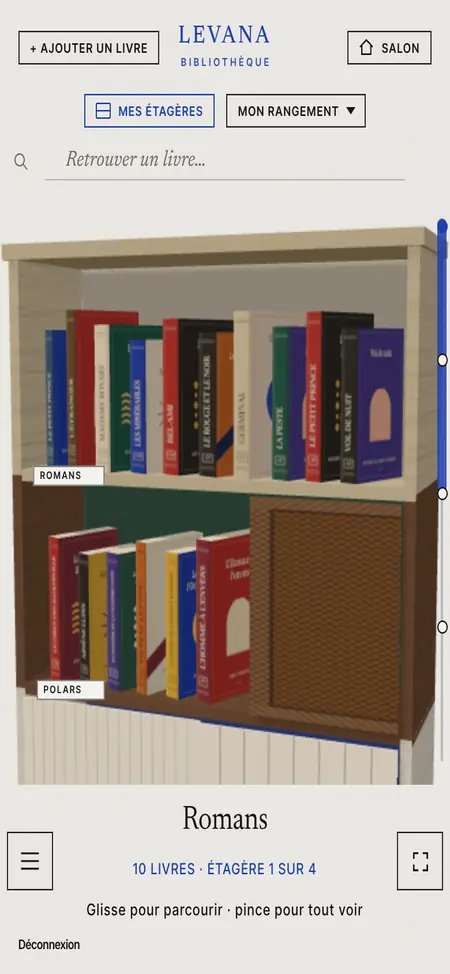
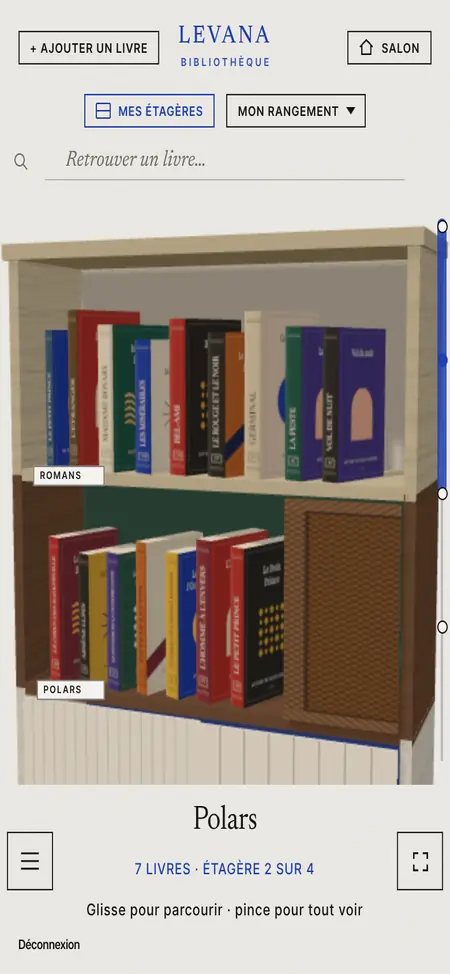
Panier : les livres sortent en rang en bas de l'écran
On touche le panier (ou « Sortir les livres ») : ses livres en sortent et se
posent en rang en bas de l'écran. On en glisse un sur une étagère du mur
(une place s'ouvre, le mur défile près des bords), ou on touche son « + »
pour choisir l'étagère (la plus probable en premier). Remplace le rangement
un par un. Le panier garde une taille fixe pour que le mur ne bouge pas.
Le tuto de la télé est refait avec ces nouveaux écrans.

Claude-Session: https://claude.ai/code/session_01Tg9JuQWn64WBjX1JtYF8aa

diff --git a/src/components/Basket.jsx b/src/components/Basket.jsx
@@ -2,6 +2,8 @@ import { lazy, Suspense, useEffect, useMemo, useRef, useState } from 'react'
 import { spineColors, hashString } from '../lib/bookUtils'
 import { webglAvailable } from '../three/webgl'
 import { basketScale, MAX_BASKET } from '../lib/basketSize'
+import { suggestShelf } from '../lib/suggestShelf'
+import { resolveSkin } from '../lib/skins'
 
 // Le panier 3D (Three.js) est chargé à part, comme la bibliothèque
 const Basket3D = lazy(() => import('./Basket3D'))
@@ -247,6 +249,153 @@ export function ShelfBasket({ items, shelves, defaultShelf, canDrop, api, mobile
           {confirmClear ? 'Vraiment ?' : 'Vider'}
         </button>
       </div>
+    </aside>
+  )
+}
+
+/**
+ * Le panier sous la bibliothèque. On le touche : les livres en sortent et se posent en rang
+ * en bas de l'écran. On glisse un livre sur une étagère (une place s'ouvre), ou on touche son
+ * « + » pour choisir l'étagère (la plus probable en premier).
+ */
+export function BasketTray({ items, shelves, books, api, mobile, canDrop, open, onOpen, onClose, onDropBook, onPlace, onOpenBook }) {
+  const real = useMemo(() => shelves.filter(s => !s.pseudo), [shelves])
+  const byId = useMemo(() => new Map(books.map(b => [b.id, b])), [books])
+  const [picker, setPicker] = useState(null)        // livre dont on choisit l'étagère
+  const [dragging, setDragging] = useState(null)
+  const [busy, setBusy] = useState(null)
+  const [last, setLast] = useState(null)
+  const coverEls = useRef({})
+  const n = items.length
+
+  useEffect(() => { if (picker && !items.some(b => b.googleId === picker.googleId)) setPicker(null) }, [items, picker])
+  useEffect(() => { if (!open) setPicker(null) }, [open])
+
+  const startPress = (e, book) => {
+    if (e.button > 0 || busy) return
+    const el = e.currentTarget
+    const rc = el.getBoundingClientRect()
+    const start = { x: e.clientX, y: e.clientY }
+    const fx = (e.clientX - rc.left) / rc.width, fy = (e.clientY - rc.top) / rc.height
+    const touch = e.pointerType !== 'mouse'
+    const id = `basket:${book.googleId}`
+    let ghost = null, timer = null, dead = false
+    const src = el.querySelector('img')?.src
+
+    const begin = () => {
+      if (ghost || dead || !canDrop) return
+      ghost = document.createElement('div')
+      ghost.className = 'bb-ghost'
+      ghost.style.cssText = `width:${rc.width}px;height:${rc.height}px;background:${colorOf(book)}`
+      if (src) { const img = new Image(); img.src = src; img.alt = ''; ghost.appendChild(img) }
+      ghost.style.transform = `translate(${rc.left}px, ${rc.top}px) scale(1.08)`
+      document.body.appendChild(ghost)
+      document.body.classList.add('is-dragging')
+      setDragging(book.googleId)
+      setPicker(null)
+      navigator.vibrate?.(8)
+    }
+    const onMove = ev => {
+      const dx = ev.clientX - start.x, dy = ev.clientY - start.y
+      if (!ghost) {
+        if (Math.hypot(dx, dy) < 7) return
+        // doigt : vers le haut on prend le livre ; sur le côté on fait défiler la rangée
+        if (!touch || (dy < 0 && Math.abs(dy) > Math.abs(dx) * 0.8)) begin()
+        else { dead = true; clearTimeout(timer); return }
+        if (!ghost) return
+      }
+      ev.preventDefault()
+      ghost.style.transform = `translate(${ev.clientX - fx * rc.width}px, ${ev.clientY - fy * rc.height}px) scale(1.12) rotate(-3deg)`
+      const over = api.current?.previewExternal(id, ev.clientX, ev.clientY)
+      ghost.classList.toggle('on-shelf', !!over)
+    }
+    const end = ev => {
+      clearTimeout(timer)
+      el.removeEventListener('pointermove', onMove)
+      el.removeEventListener('pointerup', end)
+      el.removeEventListener('pointercancel', end)
+      if (!ghost) {
+        if (ev.type === 'pointerup' && !dead && Math.hypot(ev.clientX - start.x, ev.clientY - start.y) < 7) onOpenBook(book)
+        return
+      }
+      const t = api.current?.endExternal() || null
+      document.body.classList.remove('is-dragging')
+      setDragging(null)
+      const g = ghost
+      if (t && ev.type === 'pointerup') {
+        g.animate([{ opacity: 1 }, { opacity: 0, transform: g.style.transform.replace(/scale\([^)]*\)/, 'scale(0.5)') }], { duration: 260, easing: 'ease-in' }).onfinish = () => g.remove()
+        setLast(t.shelfId)
+        onDropBook(book, t)
+      } else {
+        // pas d'étagère sous le doigt : le livre revient à sa place dans la rangée
+        g.animate([{ transform: g.style.transform }, { transform: `translate(${rc.left}px, ${rc.top}px) scale(1)` }], { duration: 420, easing: 'cubic-bezier(.3, 1.25, .5, 1)' }).onfinish = () => g.remove()
+      }
+    }
+    if (touch) timer = setTimeout(begin, 380)     // appui long : on le prend aussi
+    el.setPointerCapture(e.pointerId)
+    el.addEventListener('pointermove', onMove)
+    el.addEventListener('pointerup', end)
+    el.addEventListener('pointercancel', end)
+  }
+
+  const choose = async (book, shelfId) => {
+    const el = coverEls.current[book.googleId]
+    setPicker(null); setBusy(book.googleId); setLast(shelfId)
+    try { await onPlace(book, shelfId, el?.getBoundingClientRect(), el?.querySelector('img')?.src) } finally { setBusy(null) }
+  }
+
+  const sugg = picker ? suggestShelf(picker, real, byId, last) : null
+  const ordered = sugg ? [real.find(s => s.id === sugg.shelfId), ...real.filter(s => s.id !== sugg.shelfId)].filter(Boolean) : real
+
+  return (
+    <aside className={'tray-bar' + (open ? ' is-open' : '')} aria-label="Mon panier">
+      <div className="tray-basket" onClick={() => !open && onOpen()} role="button" tabIndex={0} aria-label="Sortir les livres du panier">
+        <AnyBasket items={items} width={mobile ? 104 : 190} onBookClick={() => !open && onOpen()} />
+      </div>
+      <div className="tray-side">
+        <p className="tray-count">{n > 1 ? `${n} livres à ranger` : '1 livre à ranger'}</p>
+        {/* toujours là (invisible une fois ouvert) : la place du panier ne change pas, le mur ne bouge pas */}
+        <button type="button" className="lbl box filled tray-out" style={open ? { visibility: 'hidden' } : undefined} onClick={onOpen}>Sortir les livres</button>
+      </div>
+
+      {open && (
+        <div className="tray grain" role="dialog" aria-label="Livres à ranger">
+          <div className="tray-head">
+            <p className="tray-hint">{canDrop ? 'Glisse un livre sur une étagère, ou touche +' : 'Touche + pour choisir l’étagère'}</p>
+            <button type="button" className="lbl box" onClick={onClose}>Remettre au panier</button>
+          </div>
+          <div className="tray-row">
+            {items.map((b, k) => (
+              <div key={b.googleId} className={'tray-book' + (dragging === b.googleId || busy === b.googleId ? ' away' : '')} style={{ animationDelay: `${80 + k * 70}ms` }}>
+                <span className="tray-cover" ref={el => { coverEls.current[b.googleId] = el }} style={{ background: colorOf(b) }} onPointerDown={e => startPress(e, b)} onDragStart={e => e.preventDefault()}>
+                  {b.cover && <img src={b.cover.replace('http://', 'https://')} alt="" draggable="false" />}
+                </span>
+                <button type="button" className={'tray-plus' + (picker?.googleId === b.googleId ? ' on' : '')} aria-label={`Choisir l’étagère de ${b.title}`} onClick={() => setPicker(p => (p?.googleId === b.googleId ? null : b))}>+</button>
+                <span className="tray-title">{b.title}</span>
+              </div>
+            ))}
+          </div>
+          {picker && (
+            <div className="tray-picker" key={picker.googleId}>
+              <p className="tray-q"><em>{picker.title}</em> · sur quelle étagère ?</p>
+              <div className="gp-shelves">
+                {ordered.map((s, k) => {
+                  const pal = resolveSkin(s)
+                  const on = sugg?.shelfId === s.id
+                  return (
+                    <button key={s.id} type="button" className={'gp-chip' + (on ? ' sugg' : '')} style={{ '--wood': pal.mat.mid, '--wall': pal.wall2, animationDelay: `${40 + k * 35}ms` }} onClick={() => choose(picker, s.id)}>
+                      {on && <span className="gp-why">Suggérée · {sugg.reason}</span>}
+                      <span className="gp-swatch" aria-hidden="true" />
+                      <span className="gp-name">{s.name}</span>
+                      <span className="gp-count">{s.book_ids.length}</span>
+                    </button>
+                  )
+                })}
+              </div>
+            </div>
+          )}
+        </div>
+      )}
     </aside>
   )
 }

diff --git a/src/styles.css b/src/styles.css
@@ -1258,3 +1258,63 @@ canvas { -webkit-user-select: none; user-select: none; -webkit-touch-callout: no
 .tv-step { padding: 7px 10px; background-color: var(--sheet); border: 1px solid var(--rule-soft); color: var(--ink); }
 
 .tv-overlay { position: fixed; z-index: 2; pointer-events: none; border-radius: 2px; }
+
+/* Le panier sous la bibliothèque : on sort les livres en bas de l'écran ------------------- */
+/* pas d'animation ni de transform ici : la rangée (position fixe) doit pouvoir sortir du cadre */
+.tray-bar { display: flex; align-items: center; gap: 14px; padding: 0 18px 6px 4px; flex: none; }
+.tray-bar > .tray-basket, .tray-bar > .tray-side { animation: cardIn 0.6s cubic-bezier(.2, .8, .2, 1) both; }
+.tray-basket { cursor: pointer; flex: none; transition: transform 0.3s cubic-bezier(.3, 1.6, .5, 1); }
+.tray-basket:active { transform: scale(0.95); }
+.tray-side { display: flex; flex-direction: column; gap: 10px; align-items: flex-start; }
+.tray-count { font-family: var(--serif); font-style: italic; font-size: 17px; }
+.tray-out { height: 36px; padding: 0 14px; animation: countPop 0.6s 0.4s cubic-bezier(.3, 1.6, .5, 1) both; }
+.tray {
+  position: fixed; left: 50%; bottom: 14px; transform: translateX(-50%); z-index: 57;
+  width: min(980px, calc(100vw - 28px)); padding: 12px 14px 14px;
+  background-color: var(--sheet); border: 1px solid var(--rule); box-shadow: 0 24px 50px -22px rgba(20, 16, 10, 0.5);
+  animation: trayUp 0.5s cubic-bezier(.3, 1.2, .45, 1) both;
+}
+@keyframes trayUp { from { transform: translate(-50%, 110%); } }
+.tray-head { display: flex; align-items: center; justify-content: space-between; gap: 10px; }
+.tray-hint { font-family: var(--serif); font-style: italic; font-size: 15px; color: var(--muted); }
+.tray-head .box { height: 28px; flex: none; }
+.tray-row { display: flex; gap: 14px; overflow-x: auto; padding: 14px 4px 4px; touch-action: pan-x; scrollbar-width: none; }
+.tray-row::-webkit-scrollbar { display: none; }
+.tray-book {
+  position: relative; flex: none; width: 76px; display: flex; flex-direction: column; gap: 6px;
+  animation: pourOut 0.65s cubic-bezier(.3, 1.35, .5, 1) both;
+  transition: opacity 0.2s;
+}
+@keyframes pourOut { from { transform: translate(-60px, 70px) rotate(-14deg) scale(0.5); opacity: 0; } 60% { opacity: 1; } }
+.tray-book.away { opacity: 0.25; }
+.tray-cover {
+  display: block; width: 76px; height: 114px; border-radius: 2px; overflow: hidden; cursor: grab; touch-action: pan-x;
+  box-shadow: 0 10px 16px -10px rgba(20, 16, 10, 0.6); transition: transform 0.25s cubic-bezier(.3, 1.6, .5, 1);
+}
+.tray-cover:hover { transform: translateY(-4px) rotate(-1.5deg); }
+.tray-cover img { width: 100%; height: 100%; object-fit: cover; display: block; pointer-events: none; }
+.tray-plus {
+  position: absolute; top: -9px; right: -9px; width: 28px; height: 28px; border-radius: 50%;
+  background: var(--cobalt); color: #fff; font-family: var(--sans); font-size: 19px; font-weight: 500; line-height: 1;
+  display: inline-flex; align-items: center; justify-content: center; box-shadow: 0 4px 10px -4px rgba(20, 16, 10, 0.5);
+  transition: transform 0.3s cubic-bezier(.3, 1.6, .5, 1), background-color 0.2s;
+}
+.tray-plus:hover { transform: scale(1.12); }
+.tray-plus.on { transform: rotate(45deg); background: var(--ink); }
+.tray-title { font-family: var(--serif); font-size: 12.5px; line-height: 1.2; overflow: hidden; display: -webkit-box; -webkit-line-clamp: 2; -webkit-box-orient: vertical; }
+.tray-picker { border-top: 1px solid var(--rule-soft); margin-top: 8px; padding-top: 8px; animation: capIn2 0.35s cubic-bezier(.2, .8, .2, 1) both; }
+@keyframes capIn2 { from { clip-path: inset(0 0 100% 0); } to { clip-path: inset(0 0 0 0); } }
+.tray-q { font-family: var(--serif); font-size: 15px; color: var(--cobalt); }
+.tray-q em { color: var(--ink); }
+@media (max-width: 767px) {
+  .tray-bar { width: 100%; padding: 4px 14px 0; }
+  .tray { left: 0; right: 0; bottom: 0; width: auto; transform: none; border-left: none; border-right: none; border-bottom: none; padding-bottom: calc(14px + env(safe-area-inset-bottom, 0px)); }
+  @keyframes trayUp { from { transform: translateY(110%); } }
+  .tray-book { width: 68px; }
+  .tray-cover { width: 68px; height: 102px; }
+  .tray-hint { font-size: 13.5px; }
+}
+
+/* taille fixe : le panier qui grandit ou rapetisse ne redimensionne pas le mur */
+.tray-basket { width: 190px; height: 180px; display: flex; align-items: flex-end; justify-content: center; }
+@media (max-width: 767px) { .tray-basket { width: 104px; height: 99px; } }

diff --git a/src/App.jsx b/src/App.jsx
@@ -4,7 +4,7 @@ import { useLibrary } from './hooks/useLibrary'
 import { useShelves } from './hooks/useShelves'
 import { effectiveShelves, placeBook, moveBook } from './lib/shelfOps'
 import { useBasket } from './hooks/useBasket'
-import { SearchBasket, ShelfBasket } from './components/Basket'
+import { SearchBasket, BasketTray } from './components/Basket'
 import { useIsMobile } from './hooks/useIsMobile'
 import { flyTo, flyIntoBasket, flyToRect } from './lib/fly'
 import { MAX_BASKET } from './lib/basketSize'
@@ -14,7 +14,6 @@ import { sortBooks, SORTS, spineColors } from './lib/bookUtils'
 import Shelf3D from './components/Shelf3D'
 import MyShelves from './components/MyShelves'
 import LibrarySearch from './components/LibrarySearch'
-import GuidedPlacement from './components/GuidedPlacement'
 import { webglAvailable } from './three/webgl'
 import DetailSheet from './components/DetailSheet'
 import SearchPanel from './components/SearchPanel'
@@ -74,7 +73,7 @@ function Library({ user, onSignOut }) {
   const [search, setSearch] = useState(false)
   const [searchOpen, setSearchOpen] = useState(false)
   const [scanner, setScanner] = useState(false)
-  const [guide, setGuide] = useState(false)     // rangement du panier, un livre à la fois
+  const [guide, setGuide] = useState(false)     // livres du panier sortis en bas de l'écran, prêts à ranger
   // salon d'accueil : 'first' à l'arrivée, 'back' quand on y retourne, null dans la bibliothèque
   const [salon, setSalon] = useState(() => (HAS_WEBGL && !salonSeen() ? 'first' : null))
   const basket = useBasket(user.id)
@@ -94,7 +93,7 @@ function Library({ user, onSignOut }) {
     return sortBooks(books, sort)
   }, [books, sort])
 
-  const overlay = !!detail || search || scanner || !!shelvesOpen || !!salon || guide
+  const overlay = !!detail || search || scanner || !!shelvesOpen || !!salon
   const effShelves = useMemo(() => effectiveShelves(shelves, books), [shelves, books])
 
   const openBook = useCallback((book, el) => {
@@ -189,6 +188,9 @@ function Library({ user, onSignOut }) {
     if (ghost) setTimeout(() => { ghost.animate([{ opacity: 1 }, { opacity: 0 }], { duration: 260, fill: 'forwards' }).onfinish = () => ghost.remove() }, 420)
   }, [dropFromBasket])
 
+  // panier vidé : on referme la rangée
+  useEffect(() => { if (!basket.items.length) setGuide(false) }, [basket.items.length])
+
   const openGuide = useCallback(() => {
     if (salon) { markSalonSeen(); setSalon(null) }
     setGuide(true)
@@ -260,13 +262,11 @@ function Library({ user, onSignOut }) {
           shelves={shelves} commitShelves={commitShelves} newShelfSignal={newShelfSignal}
           onOpen={openBook} onAdd={openSearch} locked={overlay} apiRef={bookcaseApi}
           onShelfClick={id => setShelvesOpen({ id })}
-          aside={basket.items.length > 0 && !guide ? (
-            <ShelfBasket
-              items={basket.items} shelves={shelves.map(s => ({ id: s.id, name: s.name }))} defaultShelf={addTarget}
-              canDrop={HAS_WEBGL && manual} api={bookcaseApi} mobile={mobile}
-              onDropBook={dropFromBasket} onPlaceAll={placeAllFromBasket}
-              onOpenBook={b => onPick(b, null)} onRemove={basket.remove} onClear={basket.clear}
-              onGuide={manual ? openGuide : null}
+          aside={basket.items.length > 0 ? (
+            <BasketTray
+              items={basket.items} shelves={effShelves} books={books} api={bookcaseApi} mobile={mobile}
+              canDrop={HAS_WEBGL && manual} open={guide} onOpen={() => setGuide(true)} onClose={() => setGuide(false)}
+              onDropBook={dropFromBasket} onPlace={placeGuided} onOpenBook={b => onPick(b, null)}
             />
           ) : null}
           highlightId={highlightId} focusId={focusId} onFocused={onFocused} emptyText={emptyText}
@@ -321,13 +321,6 @@ function Library({ user, onSignOut }) {
 
       {shelvesOpen && (
         <MyShelves eff={effShelves} commit={commitShelves} onDeleteBooks={removeBooks} initialId={shelvesOpen.id} onClose={() => setShelvesOpen(null)} />
-      )}
-
-      {guide && (
-        <GuidedPlacement
-          items={basket.items} shelves={effShelves} books={books}
-          onPlace={placeGuided} onPlaceRest={placeAllFromBasket} onClose={() => setGuide(false)}
-        />
       )}
 
       {salon && (

diff --git a/src/three/tvTutorial.js b/src/three/tvTutorial.js
@@ -20,7 +20,7 @@ const SLIDES = [
   { title: 'Entre dans ta bibliothèque', text: 'Touche la bibliothèque du salon : la caméra plonge et tu arrives devant tes étagères.', frames: ['enter-a', 'enter-b', 'enter-c'] },
   { title: 'Ajoute un livre', text: '« + Ajouter un livre » : tape un titre, un auteur… ou scanne le code-barres au dos.', frames: ['add-a', 'add-b'] },
   { title: 'Remplis ton panier', text: 'Touche « + », ou reste appuyé sur un livre et glisse-le : le panier monte pour l’attraper.', frames: ['basket-a', 'basket-b', 'basket-c'] },
-  { title: 'Range tes livres', text: '« Ranger mon livre » : choisis l’étagère, une est déjà suggérée. Le livre s’y envole.', frames: ['range-a', 'range-c'] },
+  { title: 'Range tes livres', text: 'Touche le panier : tes livres sortent en bas de l’écran. Glisse-les sur une étagère, ou touche + pour la choisir.', frames: ['range-a', 'range-b', 'range-c'] },
   { title: 'Tes étagères, à ton goût', text: '« Mes étagères » : crée, renomme, change le bois, la couleur du fond et les portes.', frames: ['shelves-a', 'shelves-b', 'shelves-c'] },
   { title: 'Déplace tes livres', text: 'Reste appuyé sur un livre, puis glisse-le à sa nouvelle place.', frames: ['move-a', 'move-b'] },
   { title: 'En cours, lu', text: 'Touche un livre : « En cours » glisse un marque-page entre ses pages, « Lu » le tamponne.', frames: ['read-a', 'read-b', 'read-c'] },
